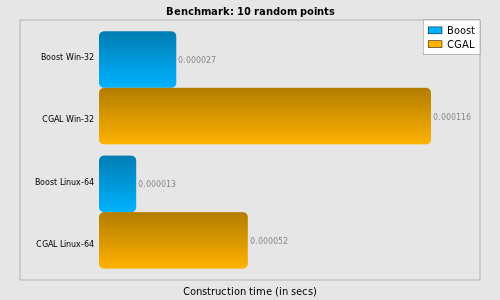
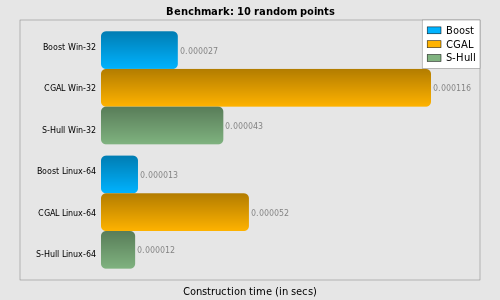
Adding S-Hull benchmark to the documentation.

Changed region(s): [[0.06, 0.06, 0.96, 0.51], [0.06, 0.51, 0.57, 0.9]]

diff --git a/sandbox/gtl/doc/voronoi_benchmark.htm b/sandbox/gtl/doc/voronoi_benchmark.htm
@@ -1,19 +1,18 @@
 <!DOCTYPE HTML PUBLIC "-//W3C//DTD HTML 4.01 Transitional//EN">
 <html><head>
+
+
+
   
   <meta http-equiv="Content-Language" content="en-us">
 
   
-  <meta http-equiv="Content-Type" content="text/html; charset=windows-1252">
-  <title>Voronoi Benchmark</title>
-
-  
-</head><body>
+  <meta http-equiv="Content-Type" content="text/html; charset=windows-1252"><title>Voronoi Benchmark</title></head><body>
 <table style="margin: 0pt; padding: 0pt; width: 100%;" border="0" cellpadding="0" cellspacing="0">
 
   <tbody>
     <tr>
-      <td style="background-color: rgb(238, 238, 238);" nowrap="1" valign="top">
+      <td style="background-color: rgb(238, 238, 238);" valign="top" nowrap="1">
       <div style="padding: 5px;" align="center"> <img src="images/boost.png" border="0" height="86" width="277"><a title="www.boost.org home page" tabindex="2" style="border: medium none ;" href="http://www.boost.org/"> </a></div>
       <div style="margin: 5px;">
       <h3 class="navbar">Contents</h3>
@@ -88,21 +87,27 @@ output topology;<br>
         </li>
         <li>compute output geometries within precision of the output
 coordinate type.</li>
+      </ul>Libraries included in the benchmark:<br>
+      <ul>
+        <li>Boost.Polygon Voronoi - satisfies all three items above.<br>
+        </li>
+        <li>CGAL - satisifes the first two items. CGAL is a well-known
+library in the computational geometry area, especially for its
+robustness.</li>
+        <li>S-Hull
+- doesn't satisfy any of the above items. S-Hull is a non-robust
+implementation of sweep-hull algorithm that constructs Delaunay
+triangulation of a set of points.<br>
+        </li>
       </ul>
-Apart from Boost.Polygon Voronoi we managed to find just one library
-that meets at least two of those requirements: <a href="http://www.cgal.org/">CGAL</a>
-(it is clearly defined in CGAL documentation that it's capable to
-handle the first two items, however there are no warranties on the
-output geometries precision). Taking into account that CGAL is
-well-known in the
-computational geometry area it should be clear why it is the main
-target of this benchmark comparison. Other libraries (<a href="https://github.com/aewallin/openvoronoi">OpenVoronoi</a>, <a href="http://qhull.org/">QHull</a>, <a href="http://www.cs.cmu.edu/%7Equake/triangle.html">Triangle</a>),
-that at least
-partially satisfy above requirements would be added to this benchmark
+There are only two robust imlementations in our benchmark:
+Boost.Polygon Voronoi and CGAL. Thus we are considering comparison of
+those two to be of the most interest. <br>
+      <br>
+Other libraries (<a href="https://github.com/aewallin/openvoronoi">OpenVoronoi</a>, <a href="http://www.cs.cmu.edu/%7Equake/triangle.html">Triangle</a>) would be added to this benchmark
 incrementally (we are open for suggestions).<br>
       <h2>Important<br>
-      </h2>
-While results of this benchmark show complete dominance of
+      </h2>While results of this benchmark show complete dominance of
 the Boost.Polygon Voronoi over the CGAL Delaunay Graph implementation,
 we would like to make it clear
 that both libraries use different approach to construct Voronoi
@@ -140,10 +145,12 @@ segment
 as 3 input objects (segment itself and its endpoints), thus the running
 time and memory usage for Voronoi of segments would be approximately at
 least 3 times
-slower than for Voronoi of points;<br>
+slower than for Voronoi of points;</li>
+        <li>The S-Hull implementation doesn't process duplicate points properly, thus those are eliminated before the algorithm execution.<br>
         </li>
+
       </ul>
-      <br>
+      
 The benchmark was executed on the following two system configurations:<br>
       <br>
 Hardware: Intel i5-7600 2.8 GHz, 4GiB RAM.<br>
@@ -161,7 +168,7 @@ patch.<br>
           <tr>
             <td colspan="2" rowspan="1" style="vertical-align: top; text-align: center;">Test specification<br>
             </td>
-            <td colspan="4" rowspan="1" style="vertical-align: top; text-align: center;">Average construction
+            <td colspan="6" rowspan="1" style="vertical-align: top; text-align: center;">Average construction
 time (in secs)<br>
             </td>
           </tr>
@@ -178,12 +185,16 @@ Win-32<br>
             <td style="vertical-align: top; text-align: center;">CGAL
 Win-32<br>
             </td>
-            <td style="vertical-align: top; text-align: center;">Boost
+            <td style="vertical-align: top; text-align: center;">S-Hull Win-32<br>
+            </td>
+<td style="vertical-align: top; text-align: center;">Boost
 Linux-64<br>
             </td>
             <td style="vertical-align: top; text-align: center;">CGAL
 Linux-64<br>
+            </td><td style="vertical-align: top; text-align: center;">S-Hull Linux-64<br>
             </td>
+
           </tr>
           <tr>
             <td style="vertical-align: top; text-align: right;">10<br>
@@ -194,10 +205,14 @@ Linux-64<br>
             </td>
             <td style="vertical-align: top; text-align: right;">0.000116<br>
             </td>
-            <td style="vertical-align: top; text-align: right;">0.000013<br>
+            <td style="vertical-align: top; text-align: right;">0.000043<br>
+            </td>
+<td style="vertical-align: top; text-align: right;">0.000013<br>
             </td>
             <td style="vertical-align: top; text-align: right;">0.000052<br>
+            </td><td style="vertical-align: top; text-align: right;">0.000012<br>
             </td>
+
           </tr>
           <tr>
             <td style="vertical-align: top; text-align: right;">100<br>
@@ -208,10 +223,14 @@ Linux-64<br>
             </td>
             <td style="vertical-align: top; text-align: right;">0.002649<br>
             </td>
-            <td style="vertical-align: top; text-align: right;">0.000192<br>
+            <td style="vertical-align: top; text-align: right;">0.000521<br>
+            </td>
+<td style="vertical-align: top; text-align: right;">0.000192<br>
             </td>
             <td style="vertical-align: top; text-align: right;">&nbsp;0.001150<br>
+            </td><td style="vertical-align: top; text-align: right;">0.000139<br>
             </td>
+
           </tr>
           <tr>
             <td style="vertical-align: top; text-align: right;">1000<br>
@@ -222,10 +241,14 @@ Linux-64<br>
             </td>
             <td style="vertical-align: top; text-align: right;">0.039140<br>
             </td>
-            <td style="vertical-align: top; text-align: right;">0.002130<br>
+            <td style="vertical-align: top; text-align: right;">0.007125<br>
+            </td>
+<td style="vertical-align: top; text-align: right;">0.002130<br>
             </td>
             <td style="vertical-align: top; text-align: right;">0.016680<br>
+            </td><td style="vertical-align: top; text-align: right;">0.002010<br>
             </td>
+
           </tr>
           <tr>
             <td style="vertical-align: top; text-align: right;">10000<br>
@@ -236,10 +259,14 @@ Linux-64<br>
             </td>
             <td style="vertical-align: top; text-align: right;">0.684090<br>
             </td>
-            <td style="vertical-align: top; text-align: right;">0.022900<br>
+            <td style="vertical-align: top; text-align: right;">0.091640<br>
+            </td>
+<td style="vertical-align: top; text-align: right;">0.022900<br>
             </td>
             <td style="vertical-align: top; text-align: right;">0.297900<br>
+            </td><td style="vertical-align: top; text-align: right;">0.028300<br>
             </td>
+
           </tr>
           <tr>
             <td style="vertical-align: top; text-align: right;">100000<br>
@@ -250,10 +277,14 @@ Linux-64<br>
             </td>
             <td style="vertical-align: top; text-align: right;">&nbsp;16.904600<br>
             </td>
-            <td style="vertical-align: top; text-align: right;">0.274000<br>
+            <td style="vertical-align: top; text-align: right;">1.218000<br>
+            </td>
+<td style="vertical-align: top; text-align: right;">0.274000<br>
             </td>
             <td style="vertical-align: top; text-align: right;">8.047000<br>
+            </td><td style="vertical-align: top; text-align: right;">0.432000<br>
             </td>
+
           </tr>
           <tr>
             <td style="vertical-align: top; text-align: right;">1000000<br>
@@ -264,10 +295,14 @@ Linux-64<br>
             </td>
             <td style="vertical-align: top; text-align: right;">566.056000<br>
             </td>
-            <td style="vertical-align: top; text-align: right;">3.290000<br>
+            <td style="vertical-align: top; text-align: right;">15.394000<br>
+            </td>
+<td style="vertical-align: top; text-align: right;">3.290000<br>
             </td>
             <td style="vertical-align: top; text-align: right;">315.740000<br>
+            </td><td style="vertical-align: top; text-align: right;">6.350000<br>
             </td>
+
           </tr>
         </tbody>
       </table>
@@ -439,6 +474,11 @@ The main conclusions for the benchmark results above are following:<br>
         <li>There is no input size range were CGAL would outperform
 Boost.Polygon Voronoi. Even considering the fact that we didn't include
 time it would take CGAL to compute coordinates of the Voronoi vertices.</li>
+        <li>The more interesting fact is that robust implementation of
+the Boost.Polygon Voronoi is faster than non-robust of
+S-Hull (except small input sets of around 100 points on Linux-64).<br>
+        </li>
+
         <li>Logarithmic execution time shows that Boost.Polygon Voronoi
 has clear N*log(N) complexity, while this doesn't seem to be true for
 CGAL (at least for large input data sets).<br>
@@ -461,7 +501,7 @@ for those quantities.</li>
       </td>
     </tr>
     <tr>
-      <td style="background-color: rgb(238, 238, 238);" nowrap="1" valign="top">&nbsp;</td>
+      <td style="background-color: rgb(238, 238, 238);" valign="top" nowrap="1">&nbsp;</td>
       <td style="padding-left: 10px; padding-right: 10px; padding-bottom: 10px;" valign="top" width="100%">
       <table class="docinfo" id="table2" frame="void" rules="none">
         <colgroup> <col class="docinfo-name"><col class="docinfo-content"> </colgroup> <tbody valign="top">

diff --git a/sandbox/gtl/doc/voronoi_builder.htm b/sandbox/gtl/doc/voronoi_builder.htm
@@ -4,6 +4,7 @@
 
 
 
+
   
   <meta http-equiv="Content-Language" content="en-us">
 
@@ -88,8 +89,8 @@ exactly). Each event is reported to the output data structure builder.
 The structure shares Voronoi name as the events generated by it
 correspond to the Voronoi diagram edges and vertices, thus giving
 enough information to construct the Voronoi diagram of a set of points
-and&nbsp; linear segments. The requirements for the input/output
-coordinate types of
+and linear segments. The requirements for the input/output
+coordinate type of
 the builder geometries are not the same as for the rest of the
 Boost.Polygon library. The main differences are in the following:<br>
       <ul>
@@ -105,7 +106,7 @@ We encourage users to use default static methods defined in the <a href="../boos
 header to construct Voronoi diagram, however it's always possible to
 use Voronoi builder explicitly, especially if the user wants to drop
 the external dependencies such as MPL (metaprogramming library). So the
-following include set woudn't depend on any external headers even
+following include set woudn't depend on any heavy external headers (except STL and boost/cstdint.hpp), even
 Boost.Polygon itself:<br>
 
       <br>
@@ -116,7 +117,9 @@ Boost.Polygon itself:<br>
 
       <span style="font-family: Courier New,Courier,monospace;">#include &lt;voronoi_utils.hpp&gt;<br>
       <br>
-      </span>This also allows to build Voronoi construction APIs on top of the Voronoi builder data strcture.<br>
+      </span>This
+also gives a way to build Voronoi construction API on top of the
+Voronoi builder data strcture for the other Boost libraries.<br>
       <h2>Declaration<br>
       </h2>
 
@@ -137,10 +140,10 @@ voronoi_builder;</span><br>
 segments).<br>
 
       <font face="Courier New"> <span style="font-family: 'Courier New',Courier,monospace;">CTT</span></font>
-- defines input/output coordinate types used by VP.<br>
+- defines input/output coordinate type used by VP.<br>
 
       <font face="Courier New"> <span style="font-family: 'Courier New',Courier,monospace;">VP</span></font>
-- predicate kernel, that provides builder with the robust and
+- predicate kernel, that provides builder with robust and
 efficient predicates and functors.<br>
 
 The Voronoi builder data structure is ready to use from the box with
@@ -148,8 +151,8 @@ The Voronoi builder data structure is ready to use from the box with
 input coordinate range to the other integer types (e.g. 64-bit
 integer), however this will also require manual set up of the
 coordinate type traits. Default voronoi_predicates&lt;<font face="Courier New"><span style="font-family: 'Courier New',Courier,monospace;">CTT</span></font>&gt;
-structure provides correct predicates as soon as types defined by <font face="Courier New"> <span style="font-family: 'Courier New',Courier,monospace;">CTT</span></font>
-satisfy the requirements explained in the end of this page. In case those
+structure provides correct and efficient predicates as soon as types defined by <font face="Courier New"> <span style="font-family: 'Courier New',Courier,monospace;">CTT</span></font>
+satisfy the requirements explained at the end of this page. In case those
 requirements are not satisfied for the user provided <font face="Courier New"> <span style="font-family: 'Courier New',Courier,monospace;">CTT</span></font>,
 proper <font face="Courier New"> <span style="font-family: 'Courier New',Courier,monospace;">VP</span></font>
 implementation is required.<span style="font-family: Courier New,Courier,monospace;"></span><br>
@@ -341,10 +344,9 @@ with
 2048-bit (64 * 32) integers as they will overflow its exponent. On the
 gcc compiler it's possible to use 80-bit long doubles for both fpt
 types, however this is not supported by MSVC compiler.</li>
-        <li>efpt_type and to_efpt_converter_type are not used to construct the
-Voronoi diagram of points (mocks will work fine).</li>
+        <li>efpt_type and to_efpt_converter_type are not used to construct Voronoi diagram of points (mocks will work fine).</li>
         <li>
-For an example of the user defined builder coordinate type traits
+For an example of the user defined coordinate type traits
 see <a href="voronoi_advanced_tutorial.htm">advanced Voronoi tutorial</a>.</li>
       </ul>
 
